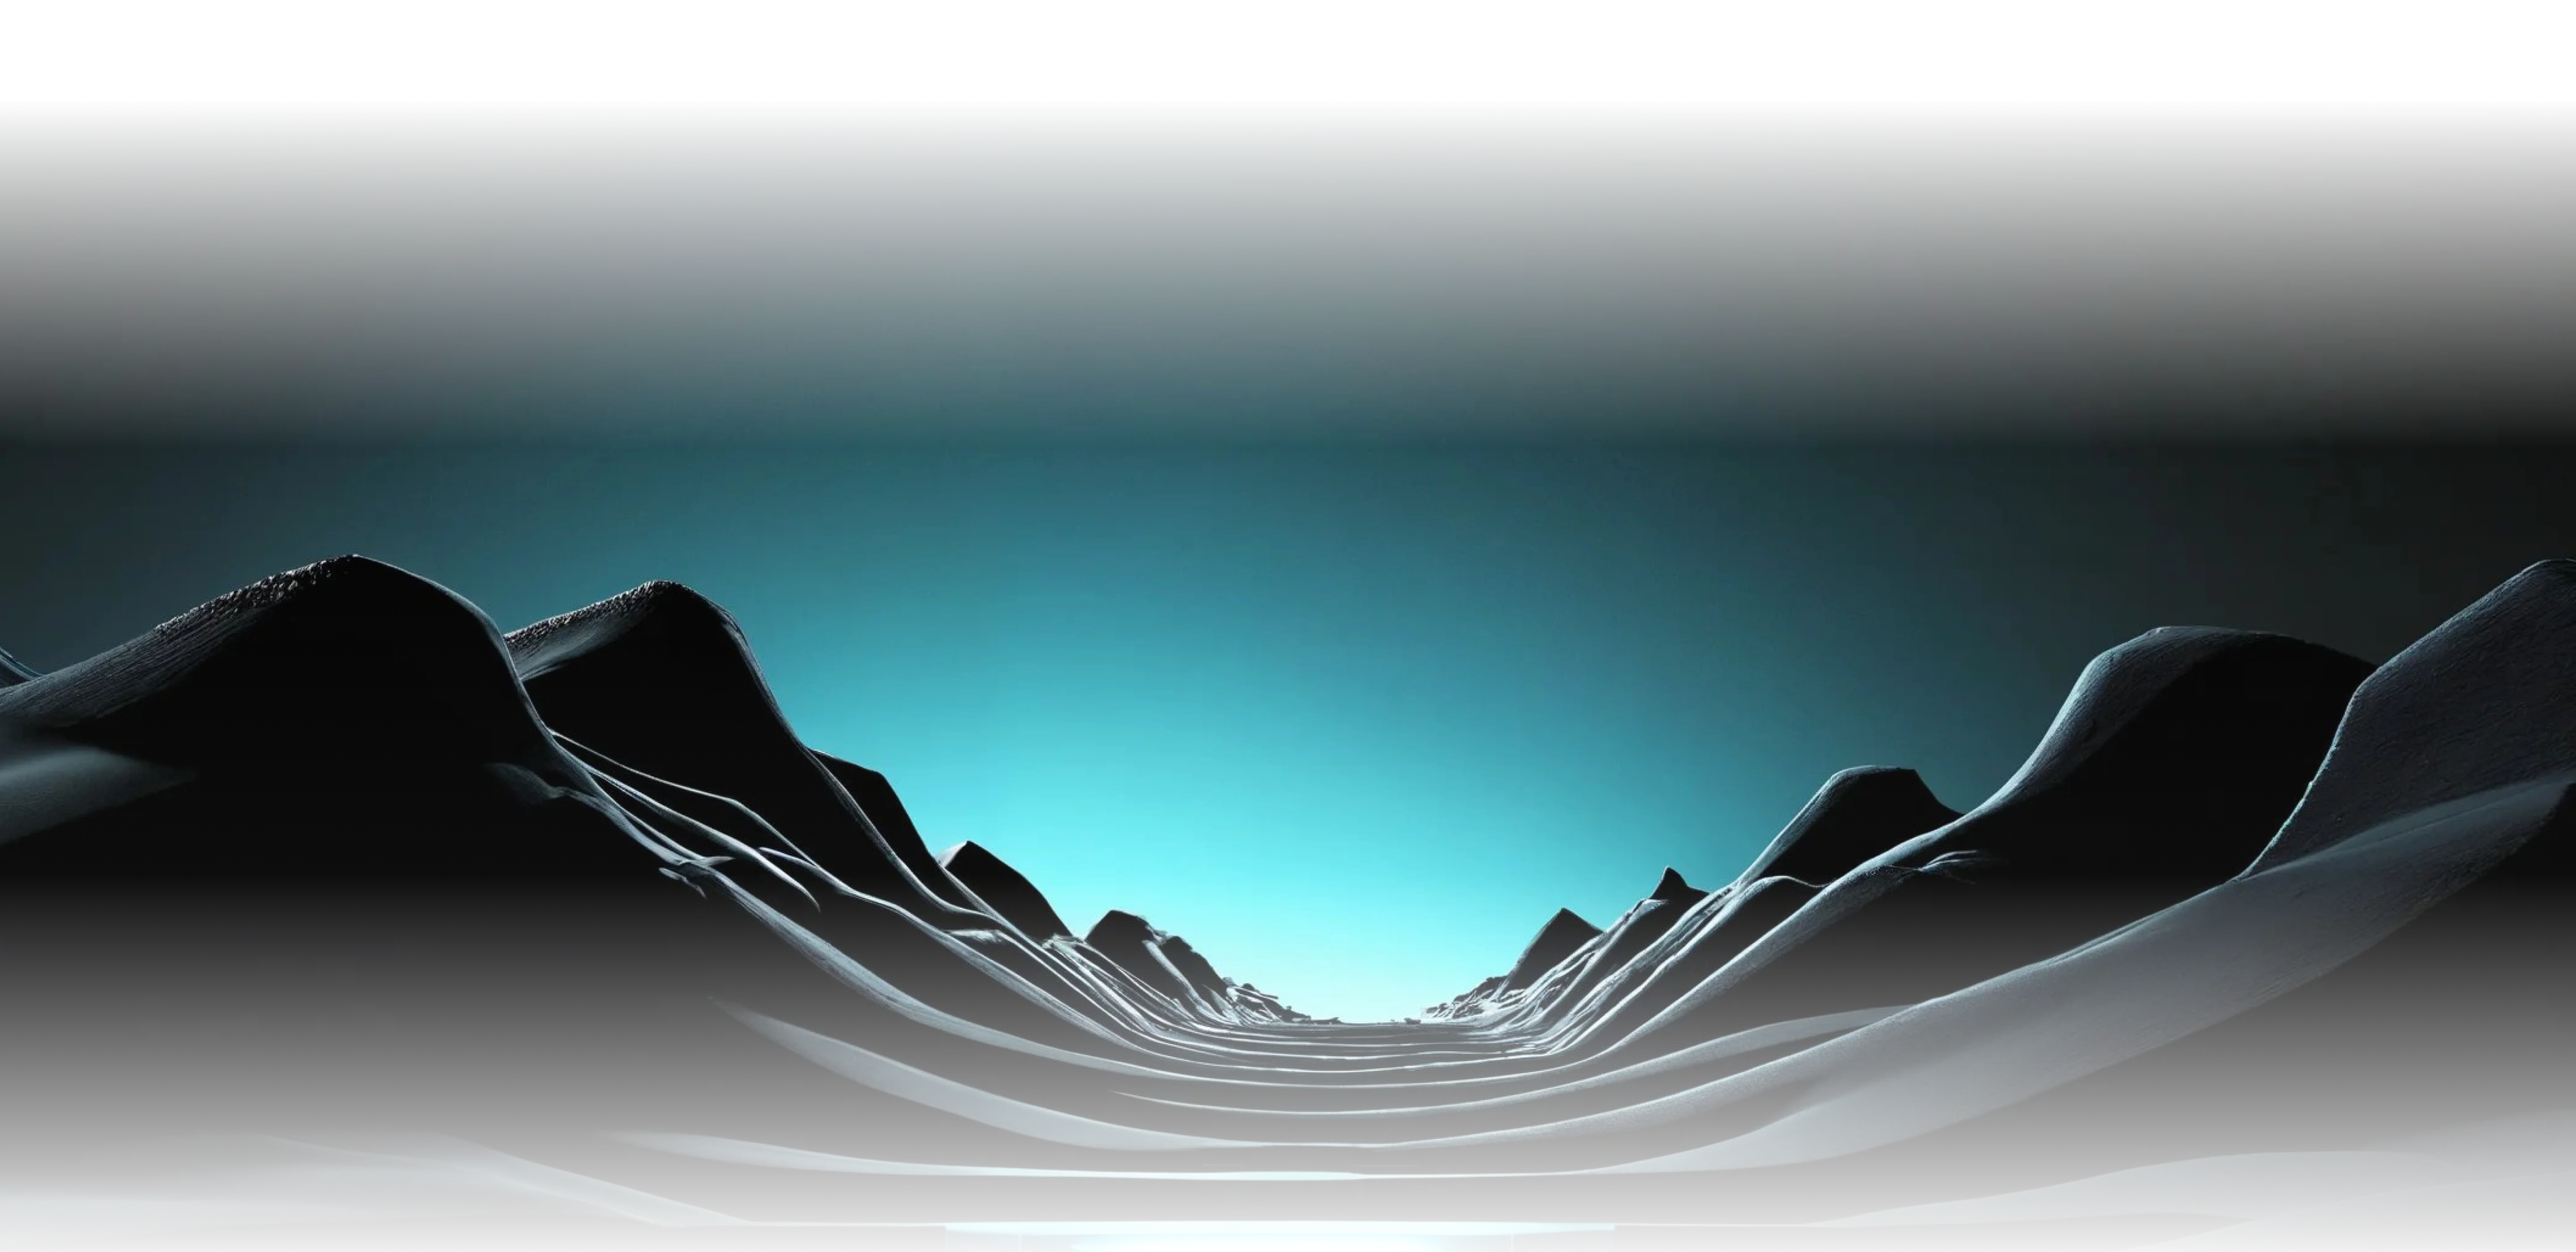
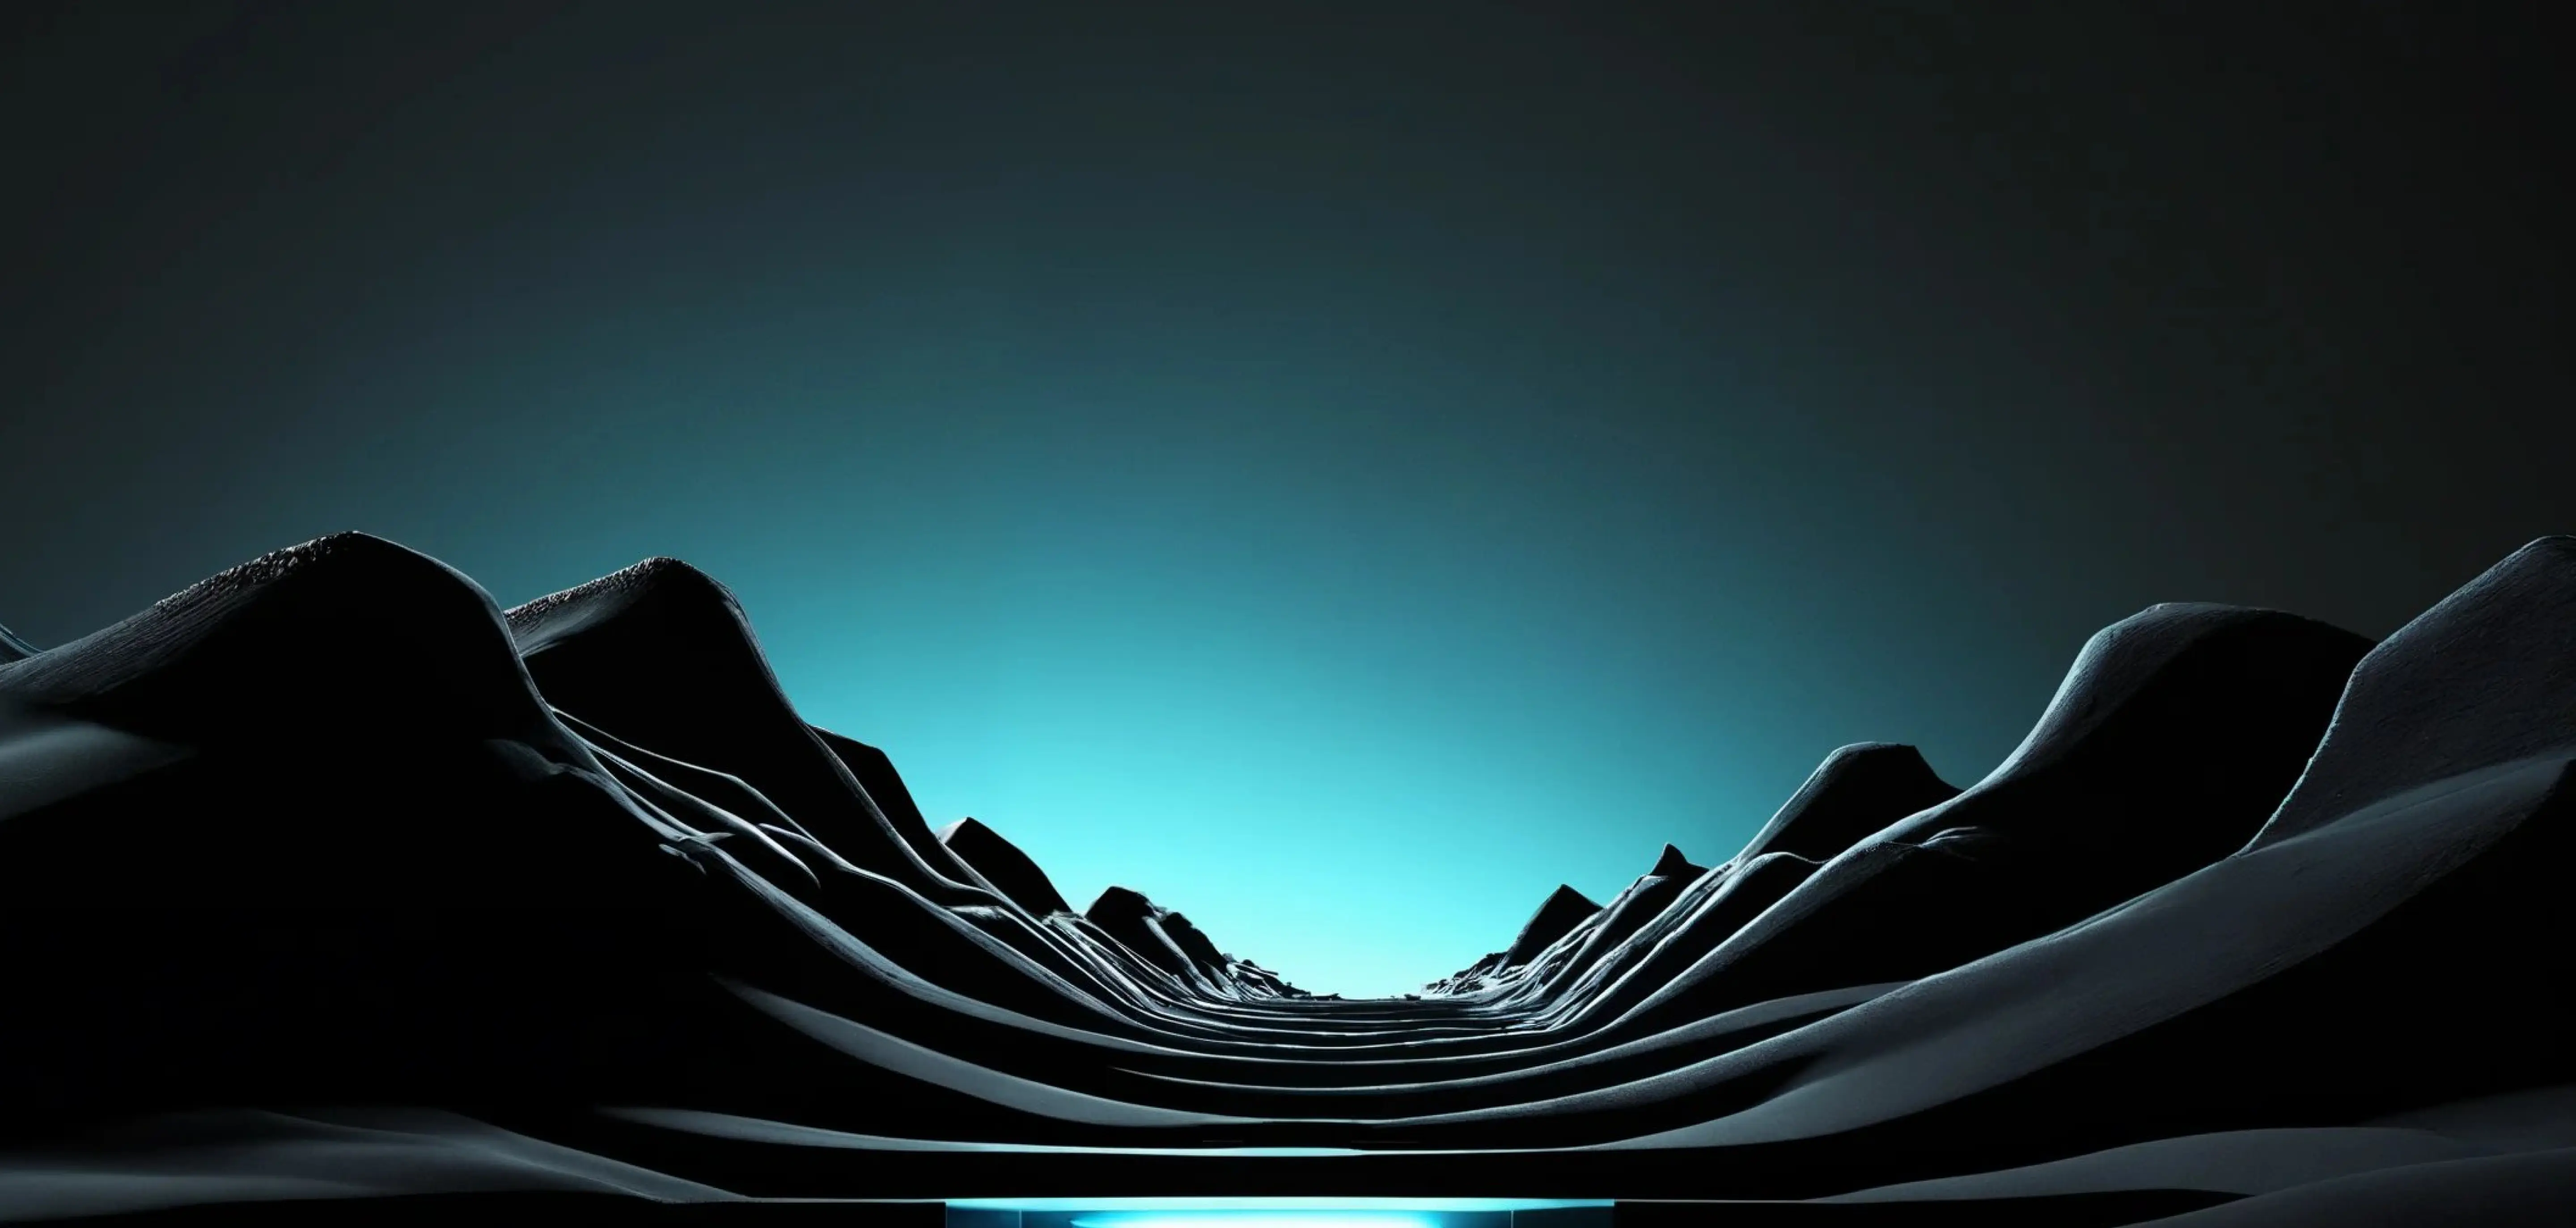
Remove search modal trigger at the end of each page, and improve image quality

diff --git a/components/modals/search.tsx b/components/modals/search.tsx
@@ -78,12 +78,6 @@ export default function SearchModal() {
 
   return (
     <Dialog.Root open={isOpen} onOpenChange={setIsOpen}>
-      <Dialog.Trigger asChild>
-        <div className="mt-4 flex w-full cursor-pointer items-center justify-between truncate rounded-lg border border-[#3F3F3F] bg-[#1A1A17] px-4 py-2 text-white md:hidden">
-          <span></span>
-          <i className="bi bi-chevron-down flex h-4 w-4 items-center justify-center text-xl" />
-        </div>
-      </Dialog.Trigger>
       <Dialog.Portal>
         <Dialog.Overlay className="fixed inset-0 z-50 bg-black/80 backdrop-blur-[.375rem]" />
         <Dialog.Content className="pb-2focus:outline-none fixed left-[50%] top-[50%] z-50 max-h-[85vh] w-[90vw] max-w-[28.125rem] translate-x-[-50%] translate-y-[-50%] overflow-y-auto rounded-lg bg-[#1A1A17] px-6 md:max-w-[80%]">

diff --git a/components/home/images.tsx b/components/home/images.tsx
@@ -10,21 +10,18 @@ export default function HomeImages() {
         src={Stars}
         alt="Stars"
         priority
-        sizes="(max-width: 768px) 100vw, 1200px"
         className="animate-subtle-bounce pointer-events-none absolute left-0 top-0 z-[2] hidden h-full w-full object-cover sm:block"
       />
       <Image
         src={MobileLeft}
         alt="MobileLeft"
         priority
-        sizes="(max-width: 768px) 100vw, 1200px"
         className="pointer-events-none absolute left-0 top-[15%] z-[2] w-1/3 object-cover sm:hidden"
       />
       <Image
         src={MobileRight}
         alt="MobileRight"
         priority
-        sizes="(max-width: 768px) 100vw, 1200px"
         className="pointer-events-none absolute right-0 top-[15%] z-[2] w-1/3 translate-y-1/4 object-cover sm:hidden"
       />
     </>

diff --git a/components/home/ecosystem.tsx b/components/home/ecosystem.tsx
@@ -12,9 +12,13 @@ export default function EcosystemSupport() {
       <Image
         src={Mountains}
         alt={"Mountains"}
-        priority
-        sizes="(max-width: 768px) 100vw, 1200px"
+        loading="lazy"
+        placeholder="blur"
         className="absolute left-0 top-0 z-[0] h-full w-full object-cover"
+        style={{
+          maskImage:
+            "linear-gradient(to bottom, rgba(0,0,0,0), rgba(0, 0, 0, 1) ,rgba(0,0,0,0))",
+        }}
       />
       <div className="container z-[1] mx-auto flex flex-col items-center justify-center gap-12">
         <SectionHeading
